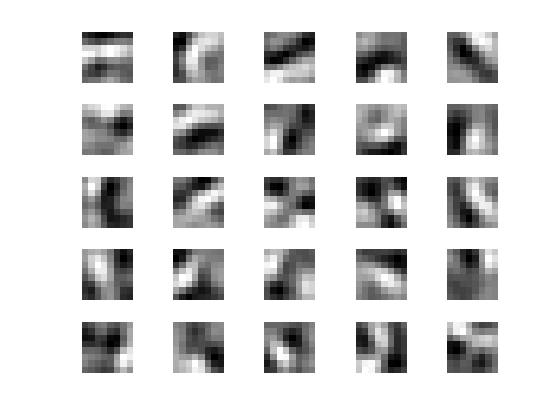
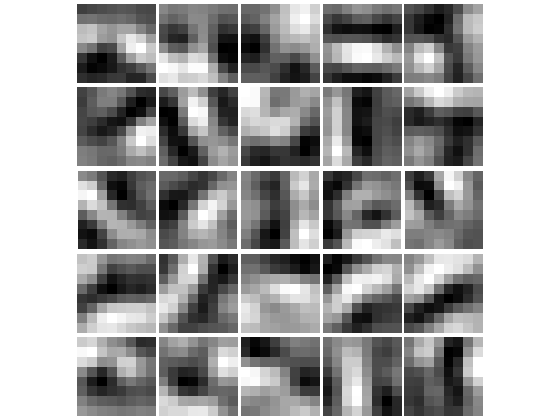
for example of sae

diff --git a/data/UFLDL/sparseae/display_sparseae.m b/data/UFLDL/sparseae/display_sparseae.m
@@ -1,4 +1,4 @@
-filename='results25s';
+filename='results25';
 
 w=load([filename, '.txt']);
 [numOfImages, numOfPixels] = size(w);

diff --git a/README.md b/README.md
@@ -35,7 +35,7 @@ run [UFLDL Sparse AutoEncoder exercise](http://ufldl.stanford.edu/wiki/index.php
 	cd data/UFLDL/sparseae/
 	matlab -r "display_sparseae.m"
 
-
+ ![UFLDL SAE](https://raw.githubusercontent.com/bobye/neuron/master/data/UFLDL/sparseae/results25.png)
 
 ### Reference
 * [Breeze](https://github.com/dlwh/breeze/): a set of libraries for machine learning and numerical computing
